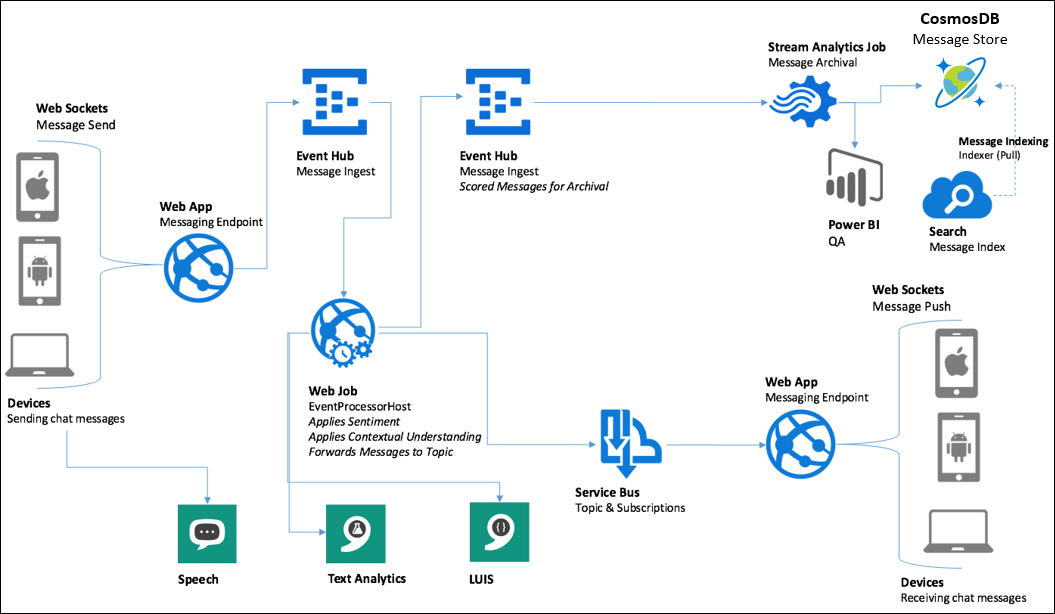
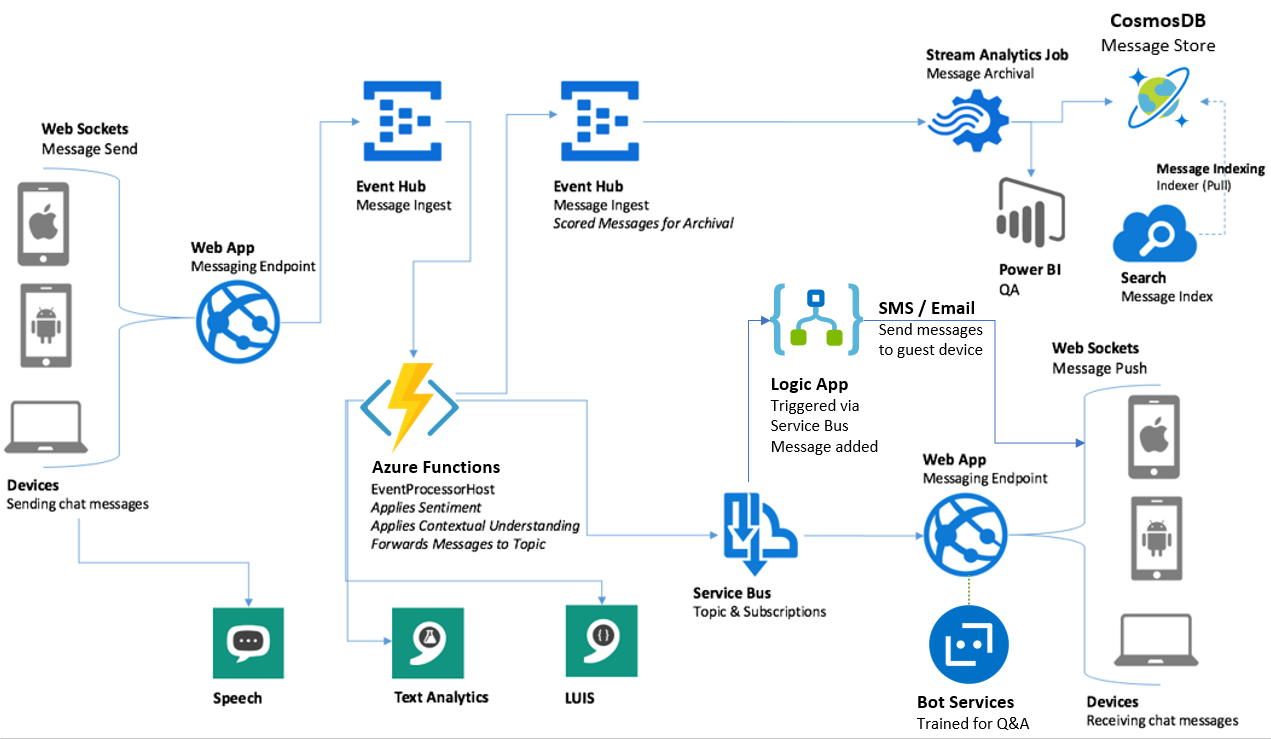
Fixed the architecture image to show the use of Function App instead of Web Job

diff --git a/Hands-on lab/HOL unguided - Intelligent analytics.md b/Hands-on lab/HOL unguided - Intelligent analytics.md
@@ -9,7 +9,7 @@ Hands-on lab unguided
 </div>
 
 <div class="MCWHeader3">
-June 2018
+August 2018
 </div>
 
 Information in this document, including URL and other Internet Web site references, is subject to change without notice. Unless otherwise noted, the example companies, organizations, products, domain names, e-mail addresses, logos, people, places, and events depicted herein are fictitious, and no association with any real company, organization, product, domain name, e-mail address, logo, person, place or event is intended or should be inferred. Complying with all applicable copyright laws is the responsibility of the user. Without limiting the rights under copyright, no part of this document may be reproduced, stored in or introduced into a retrieval system, or transmitted in any form or by any means (electronic, mechanical, photocopying, recording, or otherwise), or for any purpose, without the express written permission of Microsoft Corporation.
